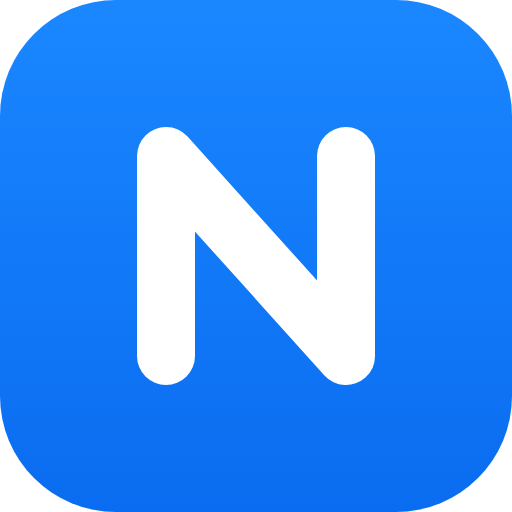
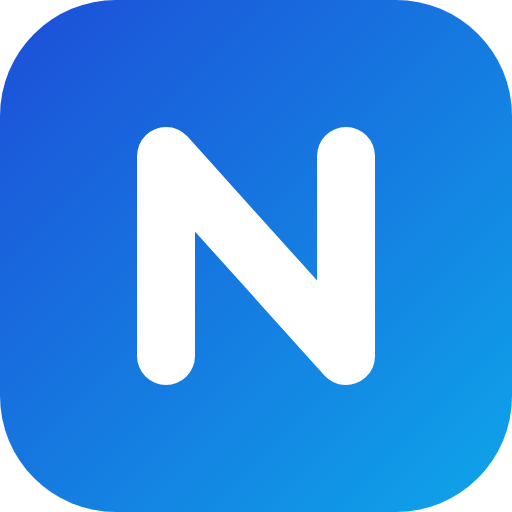
Back to the original HyperLevel look; English first
- Remove the Neso skin (neso.css, Inter, palette); the default theme is the
  original HyperLevel standard theme again, named "Neso Standard". The Neso CRM
  name and N mark stay, the mark in the original blue gradient.
- English is listed first wherever languages are offered (registry, server).
- "Account & Team", "Team Inbox".

Claude-Session: https://claude.ai/code/session_016h4eNs1EgYKbYi63tSpwhS

diff --git a/tests/i18n.test.ts b/tests/i18n.test.ts
@@ -37,7 +37,7 @@ describe('the repository', () => {
   it('the registry the check reads is the one the app loads (languages, namespaces, catalog chunks)', () => {
     const reg = readRegistry();
     expect(reg.source).toBe('de');
-    expect(reg.locales).toEqual(['de', 'en']);
+    expect(reg.locales).toEqual(['en', 'de']);
     expect(Object.keys(reg.namespaces).sort()).toEqual(Object.keys(NAMESPACES).sort());
     expect(Object.keys(reg.catalogs.en).sort()).toEqual(Object.keys(CATALOGS.en).sort());
     // phase 1: shell, sign-in and the main areas are declared complete
@@ -122,7 +122,7 @@ describe('the language preference on the server', () => {
     expect(serverPick('en;q=0, de')).toBe('de');
     expect(serverPick(undefined)).toBe('en');
     const r = await (await t.api.raw('/api/language', { headers: { 'accept-language': 'en-GB,en;q=0.9' } })).json();
-    expect(r).toEqual({ lang: 'en', locales: ['de', 'en'] });
+    expect(r).toEqual({ lang: 'en', locales: ['en', 'de'] });
     const de = await (await t.api.raw('/api/language')).json();
     expect(de.lang).toBe('en'); // Neso fork: no Accept-Language → English
   });

diff --git a/web/src/theme/themes.ts b/web/src/theme/themes.ts
@@ -40,10 +40,10 @@ const m = (bg: string, panel: string, text: string, muted: string, line: string,
 export const THEMES: Record<ThemeId, ThemeDef> = {
   gohigh: {
     id: 'gohigh',
-    name: 'Neso',
-    blurb: 'Neso-Blau auf ruhigem, neutralem Grund mit dunkler Seitenleiste – der Standard-Look.',
-    light: m('#f5f6f8', '#ffffff', '#101828', '#5b6474', '#e4e7ec', '#0a1020', '#c3cbd9', '#0a6cf0'),
-    dark: m('#0b0f17', '#111723', '#e6e9ef', '#98a2b3', '#1f2735', '#080b12', '#c3cbd9', '#3d8eff'),
+    name: 'Neso Standard',
+    blurb: 'Klar, blau, dunkle Seitenleiste – der Standard-Look.',
+    light: m('#f4f6fa', '#ffffff', '#111827', '#5d6677', '#e5e7eb', '#0f172a', '#cbd5e1', '#2563eb'),
+    dark: m('#0b1020', '#121a2e', '#e5e7eb', '#94a3b8', '#233049', '#070b16', '#cbd5e1', '#2563eb'),
   },
   nordlicht: {
     id: 'nordlicht',

diff --git a/web/src/session.ts b/web/src/session.ts
@@ -42,7 +42,7 @@ export function can(s: Pick<Session, 'user'> & { saas?: Session['saas']; hr?: Se
   return s.user.role === 'admin' || !s.user.permissions || s.user.permissions.includes(perm);
 }
 
-export const DEFAULT_BRANDING: Branding = { name: 'Neso CRM', logo_url: '', logo_dark_url: '', mark_url: '', mark_dark_url: '', show_name: '', favicon_url: '', color: '#0a6cf0', login_title: '', login_text: '', support_email: '' };
+export const DEFAULT_BRANDING: Branding = { name: 'Neso CRM', logo_url: '', logo_dark_url: '', mark_url: '', mark_dark_url: '', show_name: '', favicon_url: '', color: '#2563eb', login_title: '', login_text: '', support_email: '' };
 
 /** Puts the agency's name, colour and icon on the page. */
 export function applyBranding(b: Branding) {

diff --git a/web/src/theme/css.ts b/web/src/theme/css.ts
@@ -26,8 +26,7 @@ export interface LookInput {
 export function resolveAccent(look: LookInput, dark: boolean): string {
   if (isHex(look.accent)) return look.accent.toLowerCase();
   const t = themeById(look.theme);
-  // '#2563eb' is the former default colour that older installs stored with their branding: not a chosen colour.
-  if (look.theme === 'gohigh' && isHex(look.brandColor) && ![THEMES.gohigh.light.accent, '#2563eb'].includes(look.brandColor.toLowerCase())) return look.brandColor.toLowerCase();
+  if (look.theme === 'gohigh' && isHex(look.brandColor) && look.brandColor.toLowerCase() !== THEMES.gohigh.light.accent) return look.brandColor.toLowerCase();
   return (dark ? t.dark : t.light).accent;
 }
 

diff --git a/web/index.html b/web/index.html
@@ -8,7 +8,7 @@
     <link rel="icon" href="/favicon.svg" type="image/svg+xml" />
     <link rel="icon" href="/favicon-96.png" sizes="96x96" type="image/png" />
     <link rel="manifest" href="/manifest.webmanifest" />
-    <meta name="theme-color" content="#0a1020" />
+    <meta name="theme-color" content="#1d4ed8" />
     <!-- iPhone/iPad/foldables: home-screen meta, touch icons and launch images. Written by the build (scripts/vite-ios-head.ts, docs/ios-web-app.md). -->
     <!--ios-head-->
     <script src="/boot-guard.js"></script>

diff --git a/web/src/i18n/registry.ts b/web/src/i18n/registry.ts
@@ -20,9 +20,10 @@ export interface PluralForms {
 export type Catalog = Record<string, string | PluralForms>;
 
 /** `intl`: the formatting locale when the browser asks for no regional variant of the language. */
+// Neso fork: English first in every language list.
 export const LOCALES = {
-  de: { name: 'Deutsch', intl: 'de-DE' },
   en: { name: 'English', intl: 'en-GB' },
+  de: { name: 'Deutsch', intl: 'de-DE' },
 } as const;
 export type Locale = keyof typeof LOCALES;
 export const SOURCE_LOCALE = 'de' satisfies Locale;

diff --git a/tests/bundle-budget.test.ts b/tests/bundle-budget.test.ts
@@ -14,8 +14,7 @@ import { build } from 'vite';
  */
 // Neso fork: +2 KB for the English translation layer and branding (upstream: 160 KB).
 const JS_BUDGET_GZ = 162 * 1024;
-// Neso fork: +4 KB for the Neso skin (web/src/neso.css, upstream: 40 KB).
-const CSS_BUDGET_GZ = 44 * 1024;
+const CSS_BUDGET_GZ = 40 * 1024;
 const ROOT = resolve(__dirname, '..');
 
 type Entry = { file: string; src?: string; isEntry?: boolean; isDynamicEntry?: boolean; imports?: string[]; dynamicImports?: string[]; css?: string[] };

diff --git a/web/src/i18n/en/x_misc.ts b/web/src/i18n/en/x_misc.ts
@@ -1200,5 +1200,5 @@ export default {
   'Das ist kein gültiges JSON.': 'That isn\'t valid JSON.',
   'Alle {n} ansehen': 'View all {n}',
   'Tastaturkürzel': 'Keyboard shortcuts',
-  'Neso-Blau auf ruhigem, neutralem Grund mit dunkler Seitenleiste – der Standard-Look.': 'Neso blue on a calm neutral ground with an ink sidebar – the default look.',
+  'Klar, blau, dunkle Seitenleiste – der Standard-Look.': 'Clear, blue, dark sidebar – the standard look.',
 } satisfies Catalog;

diff --git a/web/src/main.tsx b/web/src/main.tsx
@@ -2,7 +2,6 @@ import { Suspense, useEffect, useMemo, useState, type ComponentType, type ReactN
 import { createRoot } from 'react-dom/client';
 import './styles.css';
 import './theme/theme.css';
-import './neso.css';
 import { api, currentLocation, name, setLocation } from './api';
 import { BASE, ConfirmHost, Toasts, navigate, useFocusLayer, useRoute } from './ui';
 // UI language (docs/translating.md): German texts are the message ids; the English catalogs are chunks of their own.

diff --git a/web/src/styles.css b/web/src/styles.css
@@ -1,12 +1,12 @@
 :root {
-  --bg: #f5f6f8;
+  --bg: #f4f6fa;
   --panel: #ffffff;
-  --text: #101828;
-  --muted: #5b6474;
-  --line: #e4e7ec;
-  --brand: #0a6cf0;
+  --text: #111827;
+  --muted: #5d6677;
+  --line: #e5e7eb;
+  --brand: #2563eb;
   --brand-soft: #eff6ff;
-  --side: #0a1020;
+  --side: #0f172a;
   --side-text: #cbd5e1;
   /* status colours as text (≥ 4.5:1 – theme/css.ts makes them readable on every theme); the -fill ones carry white text */
   --green: #047857;

diff --git a/server/modules/language.ts b/server/modules/language.ts
@@ -13,7 +13,7 @@ import { bad } from '../core/http.js';
  * Die Texte selbst liegen in der App (web/src/i18n); der Server antwortet weiter auf Deutsch.
  */
 
-export const UI_LOCALES = ['de', 'en'] as const;
+export const UI_LOCALES = ['en', 'de'] as const;
 export type UiLocale = (typeof UI_LOCALES)[number];
 // Neso fork: English unless the browser asks for German.
 const DEFAULT: UiLocale = 'en';

diff --git a/web/src/i18n/en/x_comms.ts b/web/src/i18n/en/x_comms.ts
@@ -198,7 +198,7 @@ export default {
   'System': 'System',
   'Tags für den Kontakt': 'Tags for the contact',
   'Tags:': 'Tags:',
-  'Team-Posteingang': 'Team inbox',
+  'Team-Posteingang': 'Team Inbox',
   'Termin abgesagt': 'Appointment cancelled',
   'Termin absagen': 'Cancel appointment',
   'Termin verschieben': 'Move appointment',
